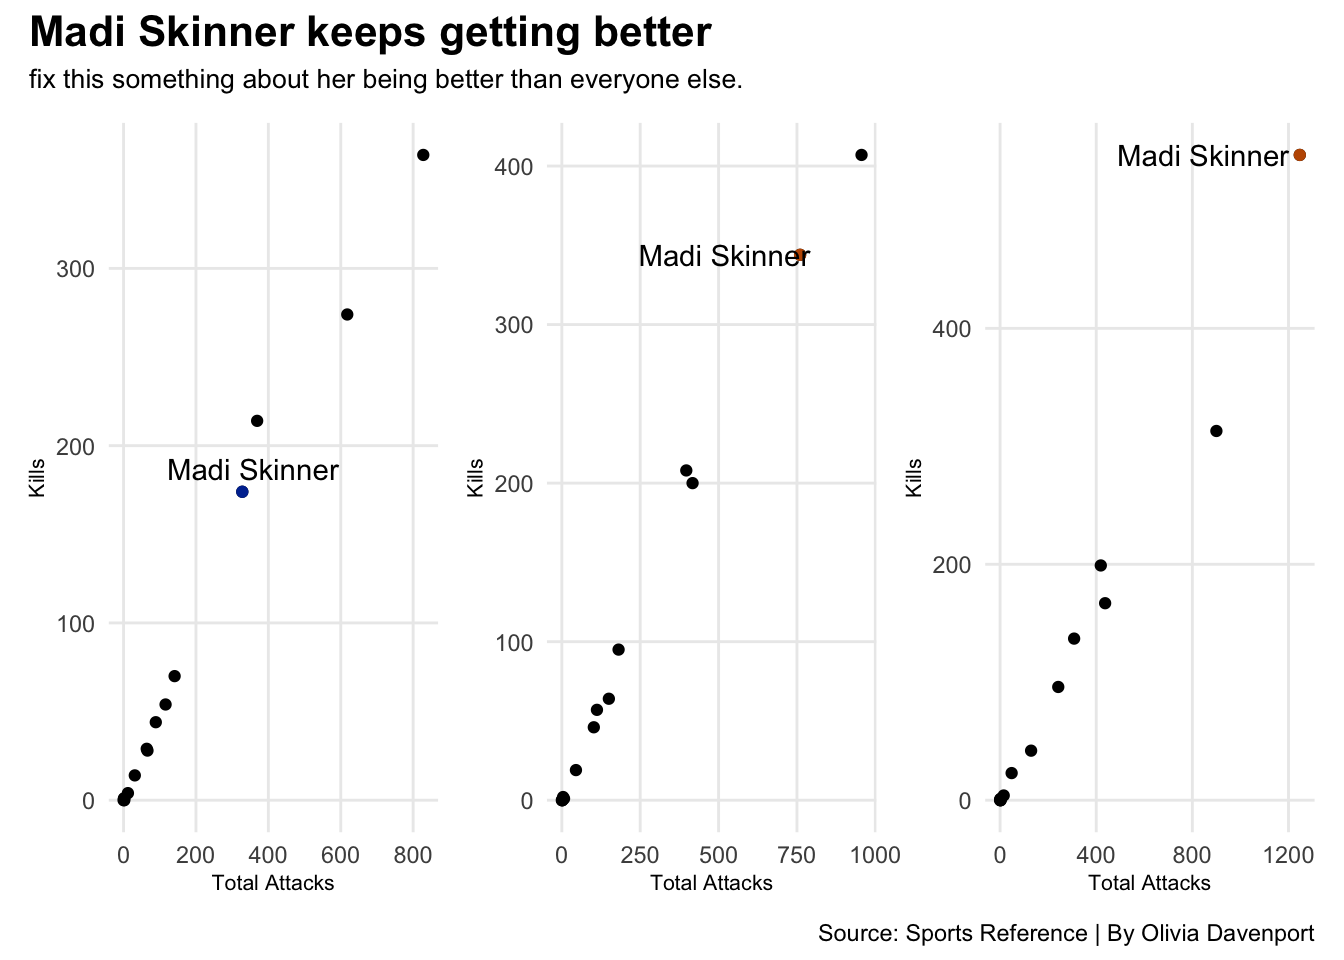
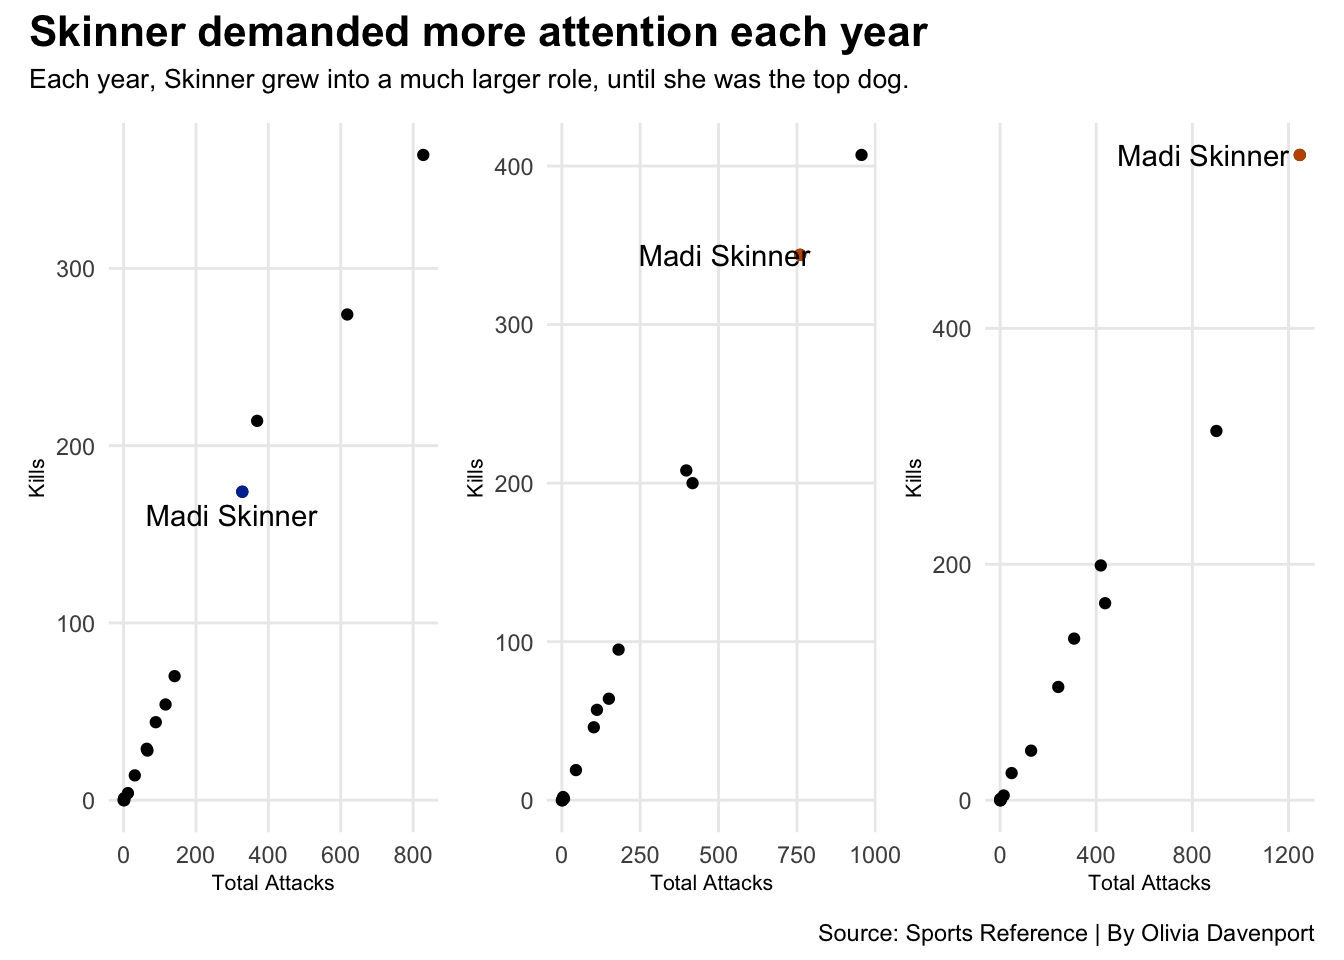
Skinner Final

Changed region(s): [[0.0312, 0.0, 0.6875, 0.0938], [0.0938, 0.5312, 0.25, 0.5625], [0.125, 0.4688, 0.25, 0.5]]

diff --git a/posts/how-impactful-is-madi-skinner/index.html b/posts/how-impactful-is-madi-skinner/index.html
@@ -9,7 +9,7 @@
 <meta name="author" content="Olivia Davenport">
 <meta name="dcterms.date" content="2025-05-04">
 
-<title>How impactful is Madisen Skinner? – Olivia Davenport’s Sports Blog</title>
+<title>How impactful is Madi Skinner? – Olivia Davenport’s Sports Blog</title>
 <style>
 code{white-space: pre-wrap;}
 span.smallcaps{font-variant: small-caps;}
@@ -144,7 +144,7 @@ pre > code.sourceCode > span > a:first-child::before { text-decoration: underlin
 <header id="title-block-header" class="quarto-title-block default page-columns page-full">
   <div class="quarto-title-banner page-columns page-full">
     <div class="quarto-title column-body">
-      <h1 class="title">How impactful is Madisen Skinner?</h1>
+      <h1 class="title">How impactful is Madi Skinner?</h1>
                                 <div class="quarto-categories">
                 <div class="quarto-category">volleyball</div>
                 <div class="quarto-category">lovb</div>
@@ -186,6 +186,8 @@ pre > code.sourceCode > span > a:first-child::before { text-decoration: underlin
 
 
 <p>In college volleyball, there are usually a few stand out athletes. Most of the time these players are hitters that seem like a setter’s go-to option. In 2020, 2022 and 2023, one of these stand out athletes was Madi Skinner. Skinner, who is now a three-time National Champion and a recent LOVB champion made herself known in the college volleyball world.</p>
+<p>Skinner reached champion status three times at two different universities. The first, Kentucky, where she was a freshman. Skinner played alongside her sister Avery Skinner when Kentucky won their first National Championship. There, she lurked in the shadows behind star outside Alli Stumler and her Sister Avery, but she was still utilized and as a freshman in the SEC, that’s impressive.</p>
+<p>In 2022, Skinner transferred to the University of Texas. There she was able to relish in the spotlight. Skinner was a go to hitter for the Longhorns in their back-to-back National Championship wins. She helped lead the team to the title in 2022 and 2023. Is it a coincidence that three of the four teams Skinner was on won it all? And remember, this was at two different universities.</p>
 <div class="cell">
 <details class="code-fold">
 <summary>Code</summary>
@@ -267,6 +269,10 @@ pre > code.sourceCode > span > a:first-child::before { text-decoration: underlin
 </div>
 </div>
 </div>
+<p>Skinner was scoring points for all three of these teams and she was doing it efficiently. Defensively, Skinner can hold her own, but she truly shines on offense, which is to be expected of an outside hitter. But, there is something special about Skinner’s offense and her ability to mix up shots.</p>
+<p>At Kentucky, Skinner’s usage was lower. Again, she was a freshman playing in the SEC, the second hardest conference in collegiate volleyball. The first: The Big Ten.</p>
+<p>Texas is really when things started to amp up for Skinner. Both National Championship teams at Texas were very reliant on the right arm of Madi Skinner. In 2022, the only athlete to take more swings than her was Logan Eggleston. She was named the tournament’s most outstanding player. She was also the Big 12 player of the year three years in a row.</p>
+<p>In Skinner’s second season at Texas, she was the star. Her total usage towered above the rest of her teammates and so did her kills. This was the year of Madi Skinner and she ended on top.</p>
 <div class="cell">
 <details class="code-fold">
 <summary>Code</summary>
@@ -308,8 +314,8 @@ pre > code.sourceCode > span > a:first-child::before { text-decoration: underlin
 <span id="cb2-36"><a href="#cb2-36" aria-hidden="true" tabindex="-1"></a></span>
 <span id="cb2-37"><a href="#cb2-37" aria-hidden="true" tabindex="-1"></a>bar1 <span class="sc">+</span> bar2 <span class="sc">+</span> bar3 <span class="sc">+</span></span>
 <span id="cb2-38"><a href="#cb2-38" aria-hidden="true" tabindex="-1"></a>  <span class="fu">plot_annotation</span>(</span>
-<span id="cb2-39"><a href="#cb2-39" aria-hidden="true" tabindex="-1"></a>    <span class="at">title =</span> <span class="st">"Madi Skinner keeps getting better"</span>,</span>
-<span id="cb2-40"><a href="#cb2-40" aria-hidden="true" tabindex="-1"></a>    <span class="at">subtitle =</span> <span class="st">"fix this something about her being better than everyone else."</span>,</span>
+<span id="cb2-39"><a href="#cb2-39" aria-hidden="true" tabindex="-1"></a>    <span class="at">title =</span> <span class="st">"Skinner demanded more attention each year"</span>,</span>
+<span id="cb2-40"><a href="#cb2-40" aria-hidden="true" tabindex="-1"></a>    <span class="at">subtitle =</span> <span class="st">"Each year, Skinner grew into a much larger role, until she was the top dog."</span>,</span>
 <span id="cb2-41"><a href="#cb2-41" aria-hidden="true" tabindex="-1"></a>    <span class="at">caption =</span> <span class="st">"Source: Sports Reference | By Olivia Davenport"</span></span>
 <span id="cb2-42"><a href="#cb2-42" aria-hidden="true" tabindex="-1"></a>  )  <span class="sc">&amp;</span> </span>
 <span id="cb2-43"><a href="#cb2-43" aria-hidden="true" tabindex="-1"></a>  <span class="fu">theme</span>(</span>
@@ -327,6 +333,10 @@ pre > code.sourceCode > span > a:first-child::before { text-decoration: underlin
 </div>
 </div>
 </div>
+<p>Alright, we get it. Skinner was a large part of the success of all three National Championship teams, but how good is she really compared to the rest of the outsides?</p>
+<p>She’s still pretty damn good. Her freshman year, she was right in the middle of the road. She didn’t do anything extraordinary, but she was starting to carve a place for her name in NCAA volleyball.</p>
+<p>In her first year at Texas, things started to pick up. She was being set and she was getting kills.</p>
+<p>In her second year at Texas, when they won their second title in a row, Skinner was at the top of the food chain. Very few outsides were outsides were competing at the level she was. Unfortunately for Lexi Rodriguez and the Nebraska Cornhuskers, Skinner was nearly unstoppable, from the front row as well as the service line.</p>
 <div class="cell">
 <details class="code-fold">
 <summary>Code</summary>
@@ -411,6 +421,8 @@ pre > code.sourceCode > span > a:first-child::before { text-decoration: underlin
 </div>
 </div>
 </div>
+<p>Skinner has since moved on from college volleyball. She is now on LOVB Austin. A team in the second professional league in the United States. LOVB consists of eight teams around the country and in their inaugural season, guess who won the title. Madi Skinner and LOVB Austin.</p>
+<p>Maybe success follows Skinner or maybe she expects it. Four championships and counting for the young star.</p>
 
 
 

diff --git a/index.html b/index.html
@@ -200,7 +200,7 @@ window.Quarto = {
 
 <div class="quarto-listing quarto-listing-container-default" id="listing-listing">
 <div class="list quarto-listing-default">
-<div class="quarto-post image-right" data-index="0" data-categories="dm9sbGV5YmFsbCUyQ2xvdmIlMkNvdXRzaWRl" data-listing-date-sort="1746334800000" data-listing-file-modified-sort="1746419619543" data-listing-date-modified-sort="NaN" data-listing-reading-time-sort="5" data-listing-word-count-sort="936">
+<div class="quarto-post image-right" data-index="0" data-categories="dm9sbGV5YmFsbCUyQ2xvdmIlMkNvdXRzaWRl" data-listing-date-sort="1746334800000" data-listing-file-modified-sort="1746420981801" data-listing-date-modified-sort="NaN" data-listing-reading-time-sort="8" data-listing-word-count-sort="1453">
 <div class="thumbnail">
 <p><a href="./posts/how-impactful-is-madi-skinner/index.html" class="no-external"></a></p><a href="./posts/how-impactful-is-madi-skinner/index.html" class="no-external">
 <p><img loading="lazy" src="./posts/how-impactful-is-madi-skinner/image.png" class="thumbnail-image"></p>
@@ -208,7 +208,7 @@ window.Quarto = {
 </div>
 <div class="body">
 <h3 class="no-anchor listing-title">
-<a href="./posts/how-impactful-is-madi-skinner/index.html" class="no-external">How impactful is Madisen Skinner?</a>
+<a href="./posts/how-impactful-is-madi-skinner/index.html" class="no-external">How impactful is Madi Skinner?</a>
 </h3>
 <div class="listing-subtitle">
 <a href="./posts/how-impactful-is-madi-skinner/index.html" class="no-external"></a>
